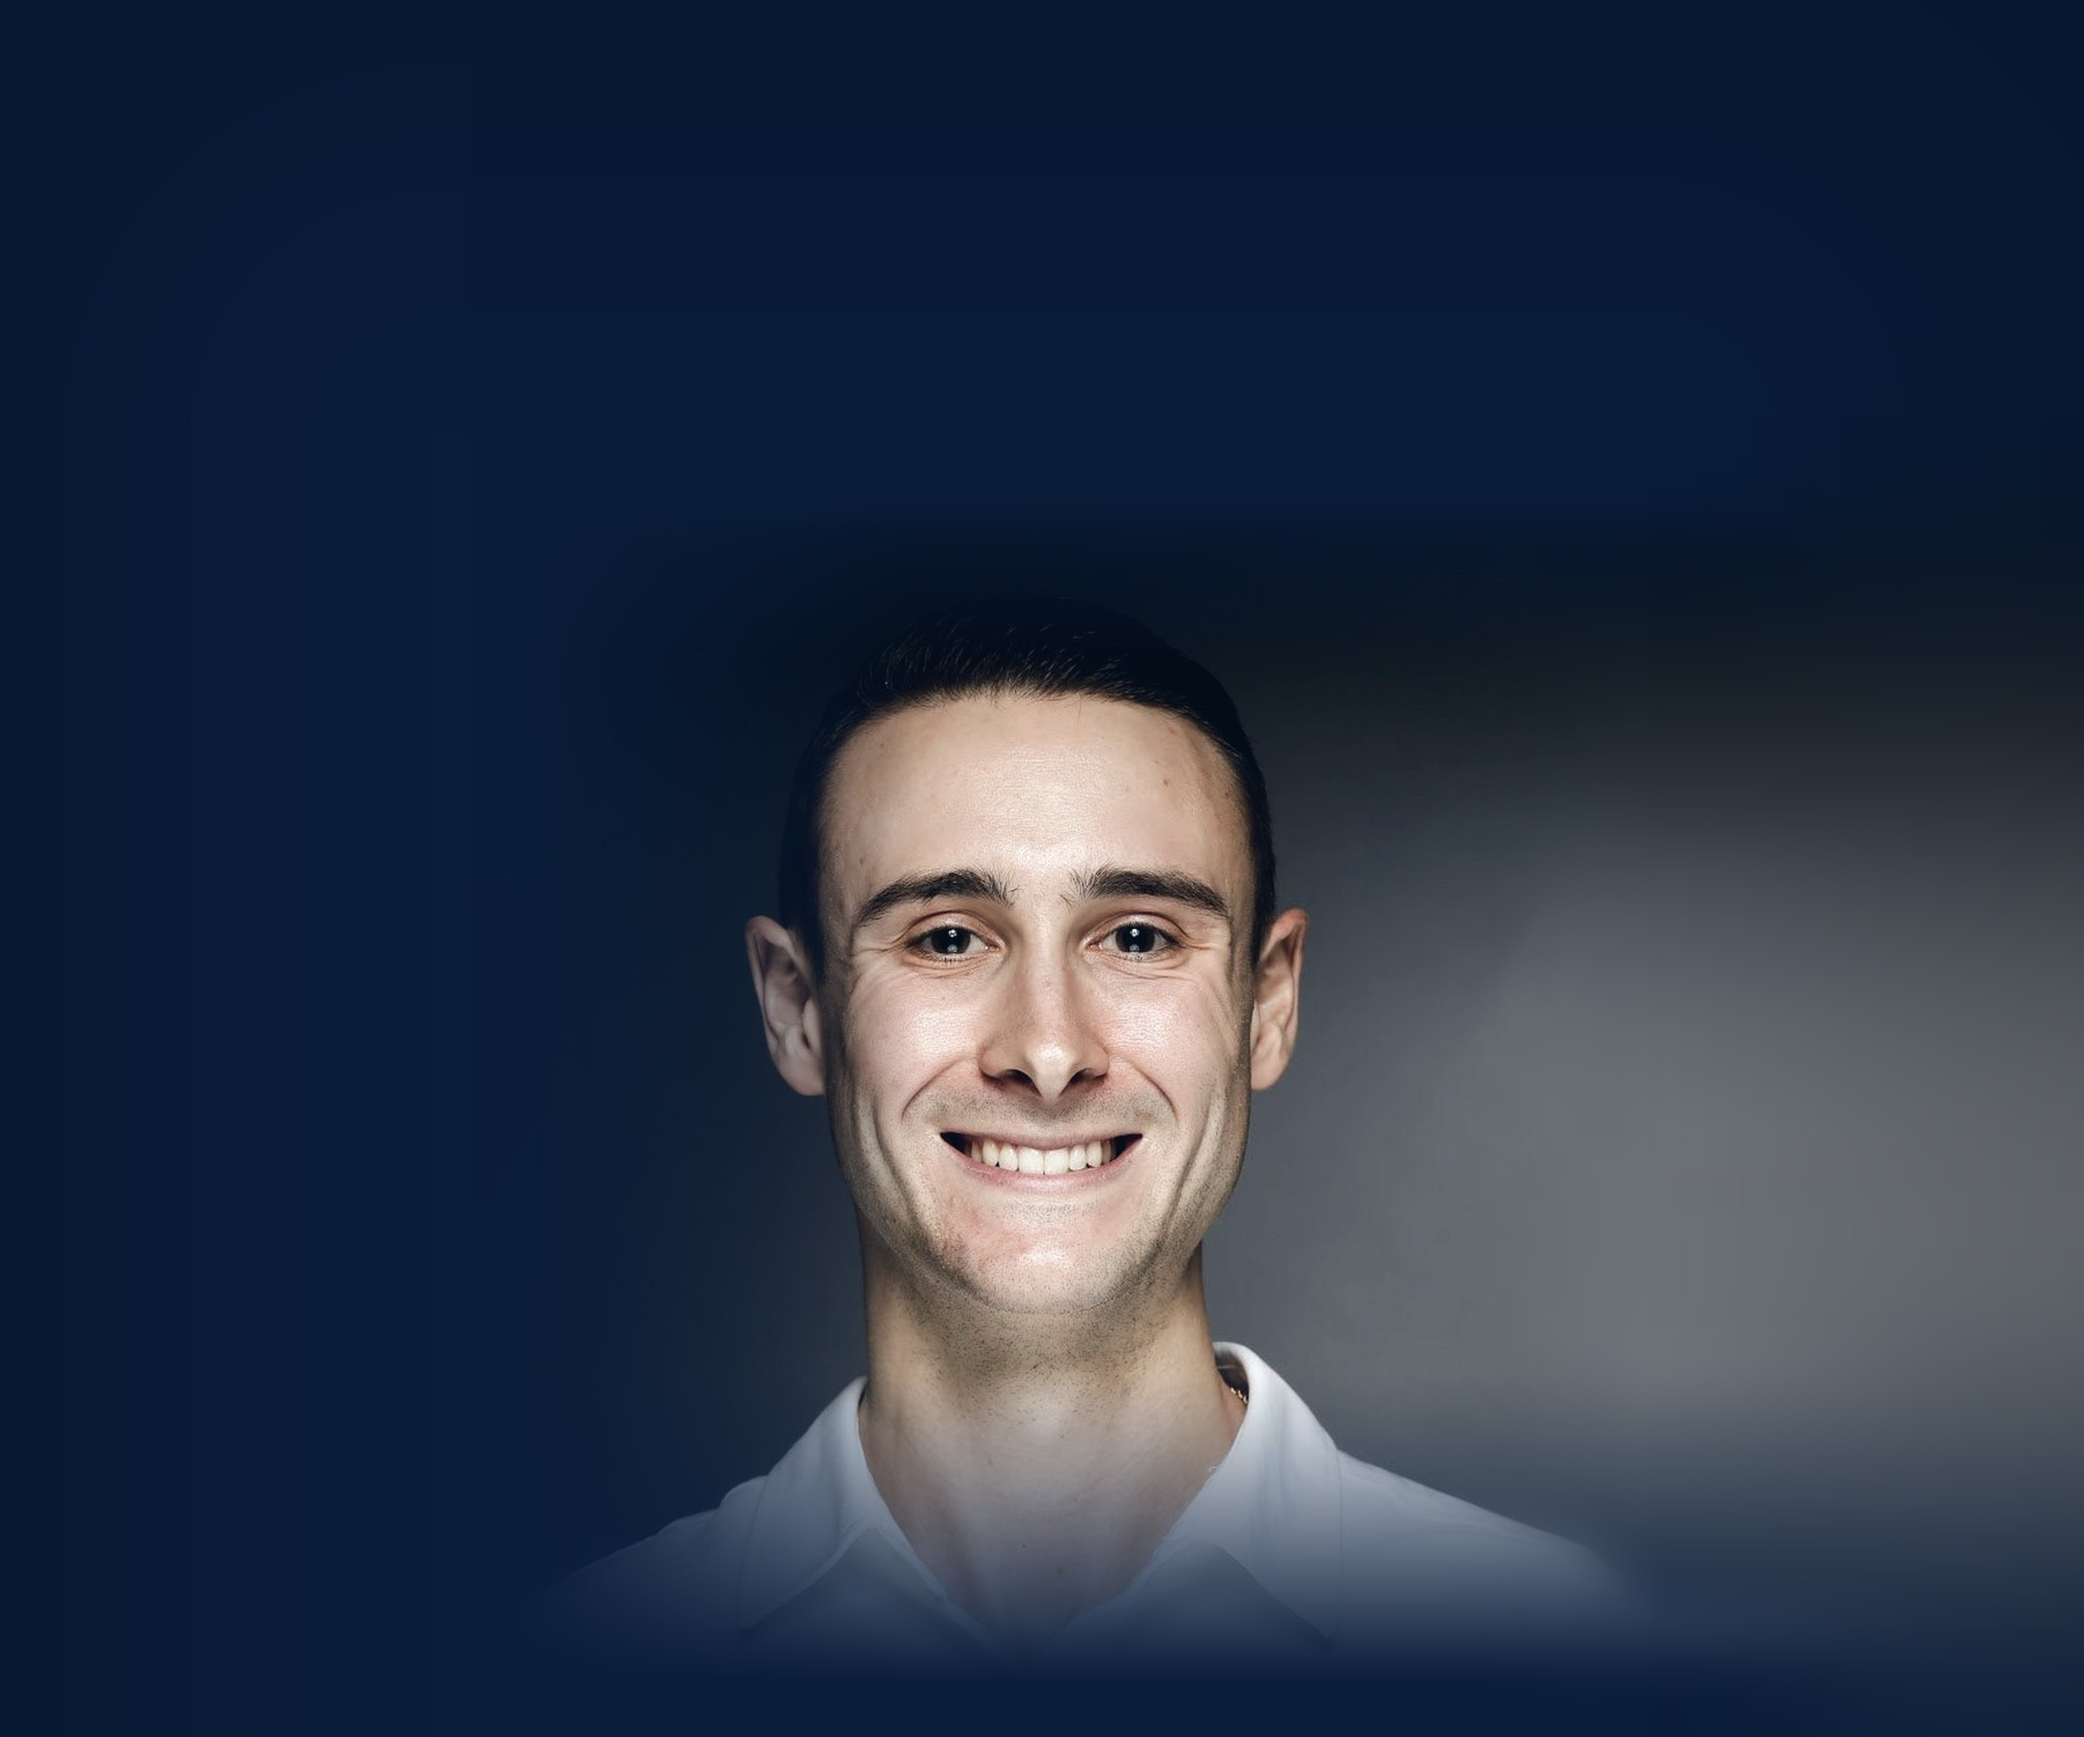
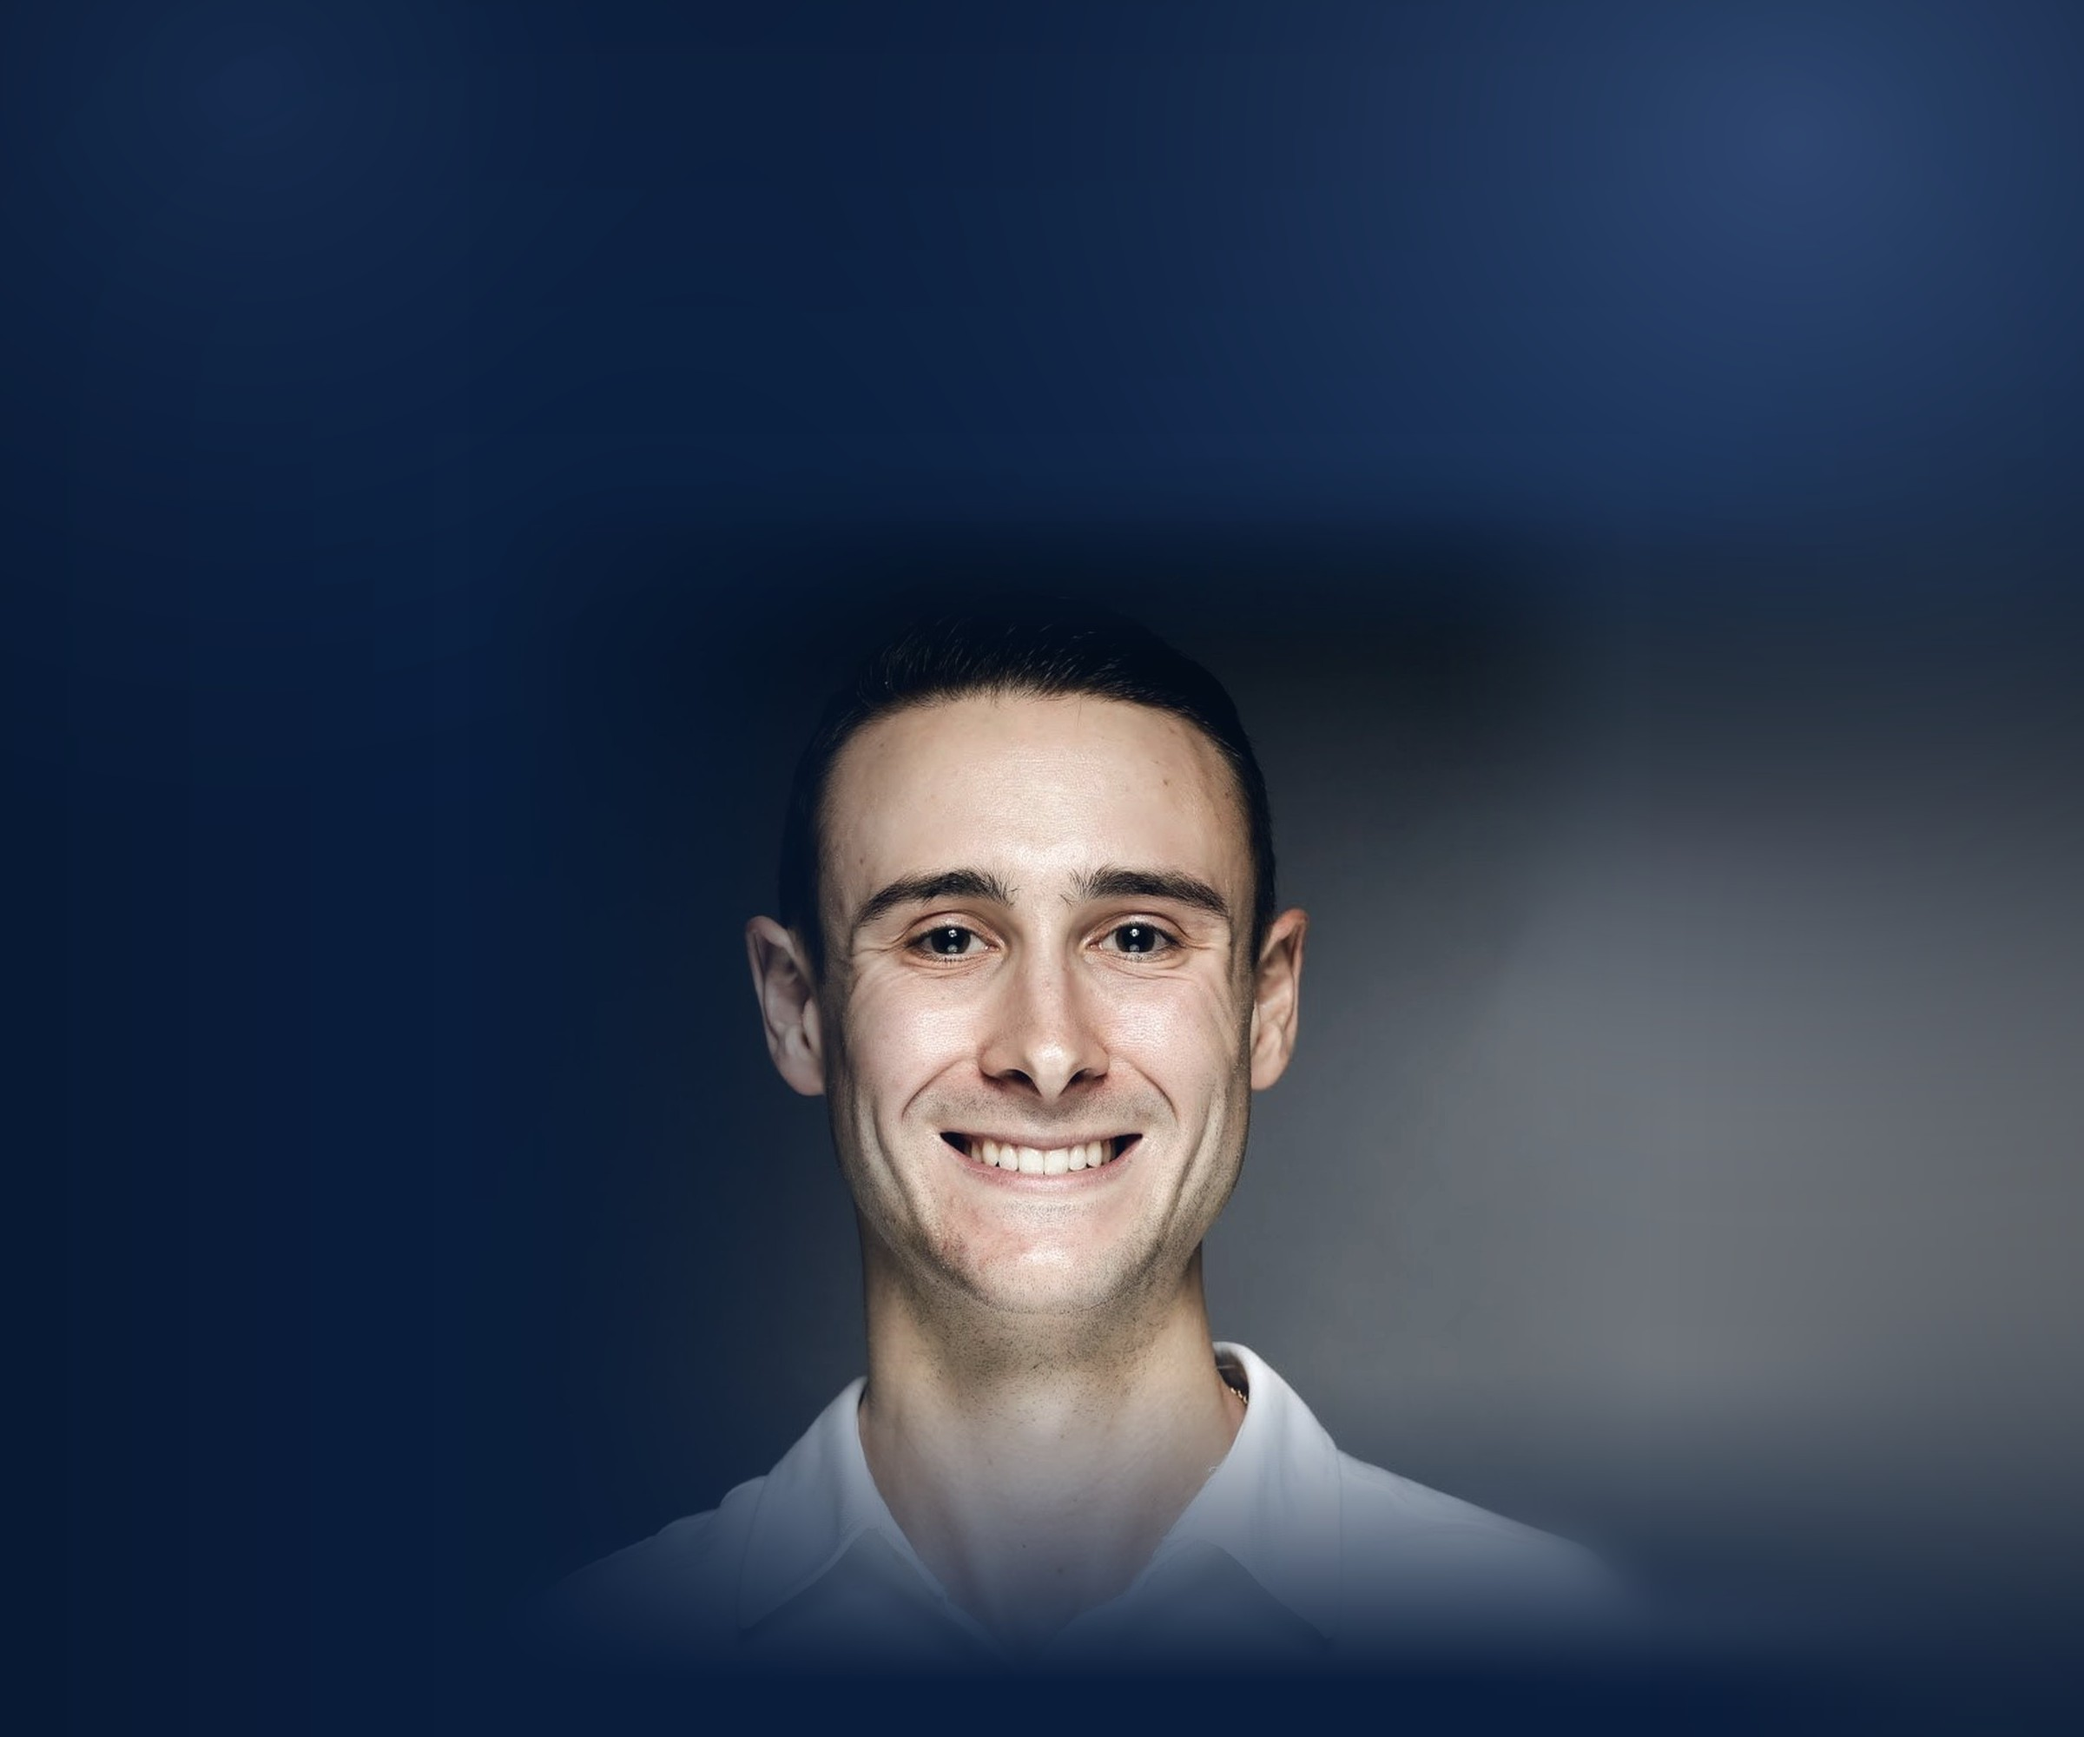
Round 16: cursor spotlight removed, hero field lit, fit card lifted, competitor slogan replaced

Changed region(s): [[0.5938, 0.0, 1.0, 0.372], [0.0938, 0.031, 0.1562, 0.093]]

diff --git a/assets/site.css b/assets/site.css
@@ -176,7 +176,8 @@ body.ready .cred-list li:nth-child(1){transition-delay:.9s}body.ready .cred-list
 .fit-head h2{font-size:clamp(30px,3.6vw,48px);color:#fff;letter-spacing:-.024em;line-height:1.02;margin-bottom:16px}
 .fit-head h2 .it{font-style:italic;color:var(--accent);font-weight:600}
 .fit-head .lede{margin:0 auto;max-width:54ch}
-.fitbox{max-width:900px;margin:0 auto;border:1px solid rgba(255,255,255,.16);background:rgba(4,11,24,.32);padding:clamp(24px,3.2vw,40px) clamp(20px,3.4vw,48px) clamp(24px,3.2vw,36px)}
+.fitbox{position:relative;max-width:900px;margin:0 auto;border:1px solid rgba(255,255,255,.16);background:rgba(4,11,24,.42);box-shadow:0 40px 90px -50px rgba(0,0,0,.7),inset 0 1px 0 rgba(255,255,255,.06);padding:clamp(24px,3.2vw,40px) clamp(20px,3.4vw,48px) clamp(24px,3.2vw,36px)}
+.fitbox::before{content:"";position:absolute;left:-1px;right:-1px;top:-1px;height:2px;background:var(--accent)}
 .fittop{display:flex;align-items:center;justify-content:space-between;gap:20px;padding-bottom:18px;margin-bottom:24px;border-bottom:1px solid rgba(255,255,255,.14)}
 .fitstep{font-size:10.5px;font-weight:700;letter-spacing:.2em;text-transform:uppercase;color:rgba(255,255,255,.55)}
 .fitbar{display:flex;gap:4px;width:170px}
@@ -412,13 +413,6 @@ body.ready .cred-list li:nth-child(1){transition-delay:.9s}body.ready .cred-list
   @keyframes zoomin{from{transform:scale(1.16) translateY(3%)}to{transform:scale(1) translateY(0)}}
   .bleed figcaption{animation:capin linear both;animation-timeline:view();animation-range:entry 40% cover 70%}
   @keyframes capin{from{opacity:0;transform:translateY(22px)}to{opacity:1;transform:none}}
-}
-/* the dark chapters answer the cursor, quietly */
-@media (pointer:fine){
-  .dark::after{content:"";position:absolute;inset:0;z-index:0;pointer-events:none;opacity:0;transition:opacity .8s var(--ease-cine);
-    background:radial-gradient(720px 520px at var(--mx,50%) var(--my,40%),rgba(255,130,50,.11),transparent 62%)}
-  .dark:hover::after{opacity:1}
-  .dark > *{position:relative;z-index:1}
 }
 /* categories: an accordion that opens under the cursor on desktop */
 @media (min-width:1060px) and (pointer:fine){

diff --git a/index.html b/index.html
@@ -63,7 +63,7 @@
 <section class="hero" id="hero" aria-labelledby="h1">
   <div class="hero-grid">
     <div class="hero-copy">
-      <p class="eyebrow hv" style="--i:0">Franchise owners helping future franchise owners</p>
+      <p class="eyebrow hv" style="--i:0">Second-generation franchise family. Free to clients.</p>
       <h1 id="h1"><span class="ln"><span>Buy a franchise</span></span><span class="ln"><span class="it">worth owning.</span></span></h1>
       <p class="hero-sub hv" style="--i:3">I help professionals and investors find the few franchises actually worth owning, based on your capital, your goals, your market, and the role you want to play.</p>
       <div class="hero-act hv" style="--i:4"><a class="btn btn-solid hero-cta" href="#fit">Find My Franchise Fit<svg viewBox="0 0 24 24" fill="none" stroke="currentColor" stroke-width="2" stroke-linecap="round" stroke-linejoin="round" aria-hidden="true"><path d="M5 12h14M13 6l6 6-6 6"/></svg></a><p class="reassure">Free. About two minutes. No pressure.</p></div>
@@ -202,7 +202,7 @@
 <footer class="foot">
   <div class="wrap">
     <div class="foot-top">
-      <p class="foot-line">Franchise owners helping <span>future</span> franchise owners.</p>
+      <p class="foot-line">Raised in franchising. <span>Now on your side</span> of the table.</p>
       <a class="btn btn-ghost" href="contact.html">Book a Call<svg viewBox="0 0 24 24" fill="none" stroke="currentColor" stroke-width="2" stroke-linecap="round" stroke-linejoin="round" aria-hidden="true"><path d="M5 12h14M13 6l6 6-6 6"/></svg></a>
     </div>
     <div class="foot-g">

diff --git a/assets/site.js b/assets/site.js
@@ -40,15 +40,6 @@
     mm.addEventListener('click',function(e){ if(e.target.closest('a')){ mm.classList.remove('open'); bg.setAttribute('aria-expanded','false'); document.documentElement.style.overflow=''; } });
   }
 
-  /* spotlight: dark chapters answer the pointer */
-  if(window.matchMedia('(pointer:fine)').matches && !RM){
-    var ptick=false, lastEv=null;
-    document.addEventListener('pointermove',function(ev){ lastEv=ev; if(!ptick){ ptick=true; requestAnimationFrame(function(){
-      var el=lastEv.target.closest && lastEv.target.closest('.dark'); if(el){ var r=el.getBoundingClientRect();
-        el.style.setProperty('--mx',((lastEv.clientX-r.left)/r.width*100).toFixed(1)+'%'); el.style.setProperty('--my',((lastEv.clientY-r.top)/r.height*100).toFixed(1)+'%'); }
-      ptick=false; }); } },{passive:true});
-  }
-
   /* reveals: text blocks and the clip-veil photographs, with a failsafe */
   var rev=[].slice.call(document.querySelectorAll('[data-r],[data-bleed]'));
   function revealAll(){ rev.forEach(function(el){ el.classList.add('in'); }); }

diff --git a/about.html b/about.html
@@ -122,7 +122,7 @@
 <footer class="foot">
   <div class="wrap">
     <div class="foot-top">
-      <p class="foot-line">Franchise owners helping <span>future</span> franchise owners.</p>
+      <p class="foot-line">Raised in franchising. <span>Now on your side</span> of the table.</p>
       <a class="btn btn-ghost" href="contact.html">Book a Call<svg viewBox="0 0 24 24" fill="none" stroke="currentColor" stroke-width="2" stroke-linecap="round" stroke-linejoin="round" aria-hidden="true"><path d="M5 12h14M13 6l6 6-6 6"/></svg></a>
     </div>
     <div class="foot-g">

diff --git a/podcast.html b/podcast.html
@@ -109,7 +109,7 @@
 <footer class="foot">
   <div class="wrap">
     <div class="foot-top">
-      <p class="foot-line">Franchise owners helping <span>future</span> franchise owners.</p>
+      <p class="foot-line">Raised in franchising. <span>Now on your side</span> of the table.</p>
       <a class="btn btn-ghost" href="contact.html">Book a Call<svg viewBox="0 0 24 24" fill="none" stroke="currentColor" stroke-width="2" stroke-linecap="round" stroke-linejoin="round" aria-hidden="true"><path d="M5 12h14M13 6l6 6-6 6"/></svg></a>
     </div>
     <div class="foot-g">

diff --git a/contact.html b/contact.html
@@ -89,7 +89,7 @@
 <footer class="foot">
   <div class="wrap">
     <div class="foot-top">
-      <p class="foot-line">Franchise owners helping <span>future</span> franchise owners.</p>
+      <p class="foot-line">Raised in franchising. <span>Now on your side</span> of the table.</p>
       <a class="btn btn-ghost" href="contact.html">Book a Call<svg viewBox="0 0 24 24" fill="none" stroke="currentColor" stroke-width="2" stroke-linecap="round" stroke-linejoin="round" aria-hidden="true"><path d="M5 12h14M13 6l6 6-6 6"/></svg></a>
     </div>
     <div class="foot-g">

diff --git a/process.html b/process.html
@@ -99,7 +99,7 @@
 <footer class="foot">
   <div class="wrap">
     <div class="foot-top">
-      <p class="foot-line">Franchise owners helping <span>future</span> franchise owners.</p>
+      <p class="foot-line">Raised in franchising. <span>Now on your side</span> of the table.</p>
       <a class="btn btn-ghost" href="contact.html">Book a Call<svg viewBox="0 0 24 24" fill="none" stroke="currentColor" stroke-width="2" stroke-linecap="round" stroke-linejoin="round" aria-hidden="true"><path d="M5 12h14M13 6l6 6-6 6"/></svg></a>
     </div>
     <div class="foot-g">

diff --git a/NOTES.md b/NOTES.md
@@ -951,3 +951,32 @@ is a photographer.
 Five pages, six viewports: 0 overflow, 0 console errors, hero one line per row, hero and
 stats above the fold at every desktop size, all links resolve, nav ground correct at all
 seven scroll positions.
+
+---
+
+# ROUND 16 (2026-09-10): the orange glow goes, and a lit hero field
+
+Javier: *"there's that orange behind the background on the blue sections... with the mouse.
+We don't want that... make this 20 times better."*
+
+- **The cursor spotlight is gone.** The warm radial that followed the pointer across dark
+  sections (`.dark::after` plus the pointermove handler) is deleted from CSS and JS. The
+  reviewer had already called the orange-on-navy glow "weird" on the hero; this was the
+  same family.
+- **The hero field is lit, not filled.** A broad soft studio light baked into the upper
+  right of the portrait field (the portrait's own key comes from the right) and a faint fill
+  upper left. The empty area above Josh now reads as a lit studio rather than a void. Same
+  file carries the About portrait.
+- **The fit finder card** gets the house form treatment: a 2px orange bar across the top, a
+  deeper ground, and a long soft shadow so it sits on the section instead of in it.
+- **The competitor's slogan is out of Josh's copy.** "Franchise owners helping future
+  franchise owners" is The Franchise Insiders' own tagline, shown in their logo lockup, and
+  it had been our hero eyebrow and footer line since round 2. Eyebrow is now "Second-
+  generation franchise family. Free to clients." and the footer line is Josh's own About
+  headline, "Raised in franchising. Now on your side of the table." Flagged to Javier.
+- Looked at `_src/josh-process.jpg` as a replacement for the stock review photo in the
+  process section: it is the talking-head video still, soft and mid-sentence, not a
+  document review. Kept the stock frame.
+
+Verified: five pages, six viewports, 0 overflow, 0 errors, nav ground correct at seven
+positions, no spotlight code left anywhere.
